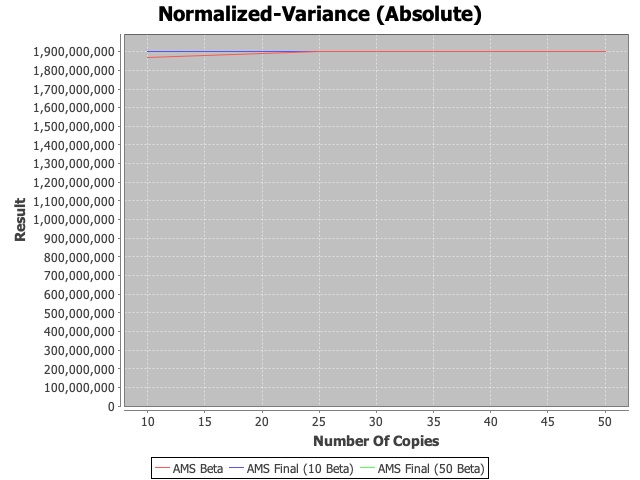
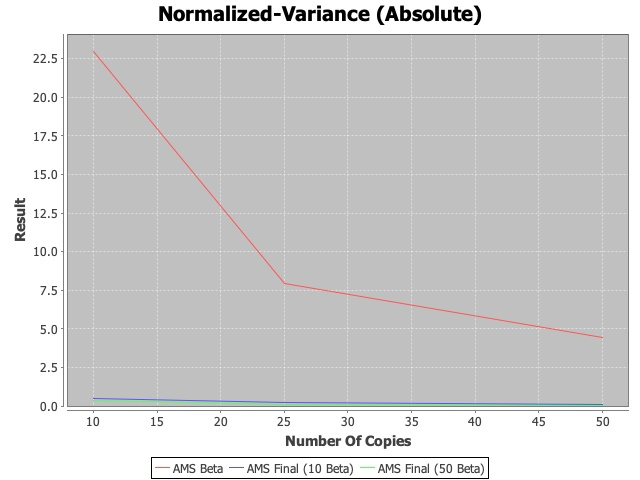
Add README.md and some fixed

diff --git a/src/test/java/AMSTest.java b/src/test/java/AMSTest.java
@@ -6,16 +6,10 @@ import org.junit.jupiter.api.Test;
 import util.AMSPlotter;
 import util.CalculationUtil;
 import util.ExperimentResult;
-import util.SeedGenerator;
-
-import java.io.BufferedWriter;
-import java.io.FileWriter;
-import java.io.IOException;
 import java.lang.reflect.Constructor;
-import java.net.URL;
-import java.util.Random;
 
 class AMSTest {
+    public static final int[] copies = {10, 25, 50};
 
     @Test
     public void testAlpha() throws Exception {
@@ -23,44 +17,30 @@ class AMSTest {
         long expectation =  CalculationUtil.calculateExpectation(experimentResults.getResults().stream());
         System.out.println("Used Mem=" + experimentResults.getMem());
         System.out.println("Expectation=" + expectation);
-        System.out.println("Normalized Variance=" + CalculationUtil.calculateNormalizedVariance(experimentResults.getResults().stream(), expectation));
+        System.out.println("Normalized Variance=" + CalculationUtil.calculateNormalizedVariance(experimentResults.getResults()));
     }
 
     @Test
     public void testBetaFinalVersion() throws Exception {
-        AMSPlotter plotter = new AMSPlotter();
+        AMSPlotter plotter = new AMSPlotter(copies);
 
         Constructor<AMSAverage> betaConstructor = AMSAverage.class.getConstructor(Integer.TYPE);
-        ExperimentResult<AMSAverage> beta10 = ExperimentResult.getExperimentResults(betaConstructor, 1);
-        ExperimentResult<AMSAverage> beta25 = ExperimentResult.getExperimentResults(betaConstructor, 2);
-        ExperimentResult<AMSAverage> beta50 = ExperimentResult.getExperimentResults(betaConstructor, 3);
+        ExperimentResult<AMSAverage> beta10 = ExperimentResult.getExperimentResults(betaConstructor, copies[0]);
+        ExperimentResult<AMSAverage> beta25 = ExperimentResult.getExperimentResults(betaConstructor, copies[1]);
+        ExperimentResult<AMSAverage> beta50 = ExperimentResult.getExperimentResults(betaConstructor, copies[2]);
         plotter.addResultSeries("AMS Beta", beta10, beta25, beta50);
 
         Constructor<AMSMedian> finalConstructor = AMSMedian.class.getConstructor(Integer.TYPE, Integer.TYPE);
-        ExperimentResult<AMSMedian> final1010 = ExperimentResult.getExperimentResults(finalConstructor, 1, 1);
-        ExperimentResult<AMSMedian> final1025 = ExperimentResult.getExperimentResults(finalConstructor, 1, 2);
-        ExperimentResult<AMSMedian> final1050 = ExperimentResult.getExperimentResults(finalConstructor, 1, 3);
+        ExperimentResult<AMSMedian> final1010 = ExperimentResult.getExperimentResults(finalConstructor, 10, copies[0]);
+        ExperimentResult<AMSMedian> final1025 = ExperimentResult.getExperimentResults(finalConstructor, 10, copies[1]);
+        ExperimentResult<AMSMedian> final1050 = ExperimentResult.getExperimentResults(finalConstructor, 10, copies[2]);
         plotter.addResultSeries("AMS Final (10 Beta)", final1010, final1025, final1050);
 
-        ExperimentResult<AMSMedian> final5010 = ExperimentResult.getExperimentResults(finalConstructor, 2, 1);
-        ExperimentResult<AMSMedian> final5025 = ExperimentResult.getExperimentResults(finalConstructor, 2, 2);
-        ExperimentResult<AMSMedian> final5050 = ExperimentResult.getExperimentResults(finalConstructor, 2, 3);
+        ExperimentResult<AMSMedian> final5010 = ExperimentResult.getExperimentResults(finalConstructor, 50, copies[0]);
+        ExperimentResult<AMSMedian> final5025 = ExperimentResult.getExperimentResults(finalConstructor, 50, copies[1]);
+        ExperimentResult<AMSMedian> final5050 = ExperimentResult.getExperimentResults(finalConstructor, 50, copies[2]);
         plotter.addResultSeries("AMS Final (50 Beta)", final5010, final5025, final5050);
 
         plotter.plot();
     }
-
-    @Test
-    public void test() throws IOException {
-        URL url = SeedGenerator.class.getClassLoader().getResource("seeds.txt");
-        assert url != null;
-        Random random = new Random();
-        BufferedWriter outputWriter = null;
-        outputWriter = new BufferedWriter(new FileWriter("/Users/michaldeutch/IdeaProjects/AMS/src/main/resources/seeds.txt"));
-        for (int i=0; i<1000000; i++) {
-            outputWriter.write(random.nextInt()+"");
-            outputWriter.newLine();
-        }
-    }
-
 }

diff --git a/src/test/java/util/AMSPlotter.java b/src/test/java/util/AMSPlotter.java
@@ -18,7 +18,21 @@ public class AMSPlotter {
     private final List<XYSeries> expectations = new ArrayList<>();
     private final List<XYSeries> normalizedVariances = new ArrayList<>();
     private final List<XYSeries> usedMem = new ArrayList<>();
-    private final int[] copies = {10, 25, 50};
+    private final int[] copies;
+
+    public AMSPlotter(int[] copies) {
+        this.copies = copies;
+        try {
+            XYSeries F2series = new XYSeries("Real F2");
+            long realF2 = HarryPotter.calculateF2();
+            for (int i: copies) {
+                F2series.add(i, realF2);
+            }
+            expectations.add(F2series);
+        } catch (Exception e) {
+            throw new RuntimeException(e);
+        }
+    }
 
     @SafeVarargs
     public final void addResultSeries(String name, ExperimentResult<?>... results) throws IOException, URISyntaxException {
@@ -28,9 +42,9 @@ public class AMSPlotter {
         int copyInd = 0;
         for (ExperimentResult<?> result : results) {
             long expectation = CalculationUtil.calculateExpectation(result.getResults().stream());
-            long normalizedVariance = CalculationUtil.calculateNormalizedVariance(result.getResults().stream(), expectation);
+            double normalizedVariance = CalculationUtil.calculateNormalizedVariance(result.getResults());
             expectationSeries.add(copies[copyInd], expectation);
-            normalizedVarianceSeries.add(copies[copyInd], normalizedVariance);
+            normalizedVarianceSeries.add(copies[copyInd], Math.abs(normalizedVariance));
             usedMemSeries.add(copies[copyInd], result.getMem());
             copyInd++;
         }
@@ -41,7 +55,7 @@ public class AMSPlotter {
 
     public void plot() throws IOException {
         plot("Expectation", getDataset(expectations));
-        plot("Normalized-Variance", getDataset(normalizedVariances));
+        plot("Normalized-Variance (Absolute)", getDataset(normalizedVariances));
         plot("Used Memory", getDataset(usedMem));
     }
 
@@ -53,7 +67,6 @@ public class AMSPlotter {
                 dataset,
                 PlotOrientation.VERTICAL,
                 true, true, false);
-
         int width = 640;   /* Width of the image */
         int height = 480;  /* Height of the image */
         File XYChart = new File( chartTile + ".jpeg" );

diff --git a/src/test/java/util/ExperimentResult.java b/src/test/java/util/ExperimentResult.java
@@ -22,12 +22,12 @@ public class ExperimentResult<T extends AMS> {
     }
 
     public static <T extends AMS> ExperimentResult<T> getExperimentResults(Constructor<T> amsConstructor, Object... k) throws Exception{
-        long memBefore = getUsedMem();
         List<Long> results = getExperimentParallelStream(amsConstructor, k)
                 .map(ExperimentResult::process)
                 .collect(toList());
-        System.out.println("******* Finished processing " + amsConstructor.getName() + ", params=" + Arrays.stream(k).toList());
-        return new ExperimentResult<>(results, getUsedMem() - memBefore);
+        System.out.println("******* Finished processing "
+                + amsConstructor.getName() + ", params=" + Arrays.stream(k).toList());
+        return new ExperimentResult<>(results, getNumOfBaseEstimators(k));
     }
 
     public List<Long> getResults() {
@@ -43,7 +43,7 @@ public class ExperimentResult<T extends AMS> {
         for (int i=0; i < RUN_EXPERIMENT_TIMES; i++) {
             experiments.add(constructor.newInstance(k));
         }
-        return experiments.stream().parallel();
+        return experiments.parallelStream();
     }
 
     private static long process(AMS ams) {
@@ -54,8 +54,12 @@ public class ExperimentResult<T extends AMS> {
         }
     }
 
-    private static long getUsedMem() {
-        return Runtime.getRuntime().totalMemory()-Runtime.getRuntime().freeMemory();
+    private static int getNumOfBaseEstimators(Object... k) {
+        int mul = 1;
+        for(int i=0; i<k.length; i++) {
+            mul *= (int)k[i];
+        }
+        return mul;
     }
 
 }

diff --git a/src/main/java/util/HarryPotter.java b/src/main/java/util/HarryPotter.java
@@ -7,11 +7,14 @@ import java.nio.file.Files;
 import java.nio.file.Path;
 import java.nio.file.Paths;
 import java.util.Arrays;
+import java.util.Map;
+import java.util.concurrent.ConcurrentHashMap;
 import java.util.concurrent.atomic.AtomicLong;
 import java.util.stream.Stream;
 
 public class HarryPotter {
-    private static AtomicLong distinctWords = new AtomicLong(0);
+    private static final AtomicLong distinctWords = new AtomicLong(0);
+    private static final AtomicLong f2 = new AtomicLong(0);
 
     public static Stream<String> getWordsStream() throws IOException, URISyntaxException {
         URL book = Thread.currentThread().getContextClassLoader().getResource("hp.txt");
@@ -24,6 +27,20 @@ public class HarryPotter {
 
     public static long countWords() throws IOException, URISyntaxException {
         return getWordsStream().count();
+    }
+
+    public static long calculateF2() throws IOException, URISyntaxException {
+        return f2.updateAndGet(val -> {
+            Map<String, Integer> frequencies = new ConcurrentHashMap<>();
+            try {
+                if (val > 0) return val;
+                getWordsStream().parallel()
+                        .forEach(word -> frequencies.compute(word, (w, freq) -> freq == null ? 1 : freq + 1));
+            } catch (Exception e) {
+                e.printStackTrace();
+            }
+            return frequencies.values().parallelStream().mapToLong(f -> Math.round(Math.pow(f, 2))).sum();
+        });
     }
 
     public static long countDistinctWords() throws IOException, URISyntaxException {

diff --git a/src/test/java/util/CalculationUtil.java b/src/test/java/util/CalculationUtil.java
@@ -2,6 +2,7 @@ package util;
 
 import java.io.IOException;
 import java.net.URISyntaxException;
+import java.util.List;
 import java.util.stream.Stream;
 
 public enum CalculationUtil {;
@@ -9,11 +10,16 @@ public enum CalculationUtil {;
         return Math.round(experiments.mapToLong(i -> i).average().getAsDouble());
     }
 
-    public static long calculateNormalizedVariance(Stream<Long> experiments, long expectation) throws IOException, URISyntaxException {
-        long expectationOfSquares = calculateExpectation(experiments.map(l -> (long) Math.pow(l, 2)));
-        long expectationSquared = (long) Math.pow(expectation, 2);
-        long n = Math.round(Math.pow(HarryPotter.countDistinctWords(), 2));
-        return (expectationOfSquares - expectationSquared) / n;
+    public static double calculateNormalizedVariance(List<Long> experiments) throws IOException, URISyntaxException {
+        double sumDif2 = 0.0;
+        double f2 = HarryPotter.calculateF2();
+        for (long val: experiments) {
+            double normalized = val / f2;
+            double diff = normalized - 1.0;
+            diff *= diff;
+            sumDif2 += diff;
+        }
+        return sumDif2 / (experiments.size() > 1? experiments.size() - 1 : 1.0);
     }
 
 }

diff --git a/src/main/java/ams/AMSMedian.java b/src/main/java/ams/AMSMedian.java
@@ -16,7 +16,7 @@ public class AMSMedian implements AMS {
     @Override
     public long process() throws Exception {
         int size = ams.size();
-        return Math.round(ams.stream().parallel().mapToLong(ams -> {
+        return Math.round(ams.parallelStream().mapToLong(ams -> {
             try {
                 return ams.process();
             } catch (Exception e) {

diff --git a/src/main/java/ams/AMSAverage.java b/src/main/java/ams/AMSAverage.java
@@ -14,7 +14,7 @@ public class AMSAverage implements AMS {
 
     @Override
     public long process() throws Exception {
-        return Math.round(ams.stream().parallel().mapToLong(ams -> {
+        return Math.round(ams.parallelStream().mapToLong(ams -> {
             try {
                 return ams.process();
             } catch (Exception e) {

diff --git a/README.md b/README.md
@@ -1,0 +1,101 @@
+
+<div>
+
+# AMS
+
+This repository contains code to experiment with the different AMS algorithms **Alpha, Beta and Final**.
+
+Each experiment gets a [Stream](https://docs.oracle.com/javase/8/docs/api/java/util/stream/Stream.html) of the [Harry Potter](src/main/resources/hp.txt) Book!
+* _1,170,484_ words in total
+* _69,686_ distinct words
+* F2 is _7,262,951,972_
+
+Java was chosen to get a reasonable running time, using high parallelism.
+
+[Getting started](#getting-started) •
+[Results](#results) 
+
+</div>
+
+## Getting started
+```sh
+git clone https://github.com/michaldeutch/AMS.git
+
+cd AMS/
+
+mvn clean install
+```
+
+## Results
+
+### AMS Alpha
+
+```sh
+# Re-run test
+mvn -Dtest=AMSTest#testAlpha test
+...
+******* Finished processing ams.AMSBase, params=[]
+Used Mem=1
+Expectation=5888724497
+Normalized Variance=14404619
+```
+
+### AMS Beta & Final
+
+```sh
+# Re-run test
+mvn -Dtest=AMSTest#testBetaFinalVersion test
+
+# 3 files should be generated, but it could take a few hours :)
+# Expectation.jpeg, Normalized-Variance (Absolute).jpeg, Used Memory.jpeg
+```
+
+I chose to create 3 charts - one for each measure, and display all 3 serieses of experiments:
+1. **Beta estimator** - with _10, 25, 50_ Alpha estimators
+2. **Final estimator with _10_ Beta Estimators** - with _10, 25, 50_ Alpha estimators
+3. **Final estimator with _50_ Beta Estimators** - with _10, 25, 50_ Alpha estimators
+
+#### Relative Errors
+
+To get a 99% success rate, we will take  &delta; = 0.01
+
+
+##### Beta Estimators:
+
+From class we know that Pr[|B-F<sub>2</sub>| > &epsilon;F<sub>2</sub>] < 2/k&epsilon;<sup>2</sup> ~ &delta; , then we can infer &epsilon;.
+
+* For 10 Alpha estimators we get that &epsilon; = 4.47
+* For 25 Alpha estimators we get that &epsilon; = 2.82
+* For 50 Alpha estimators we get that &epsilon; = 2
+
+Which is not a good approximation
+
+##### Final Estimators:
+
+In order for the median to be off accuracy, more than half of the beta estimators should be off. 
+So we get that Pr[|Final-F<sub>2</sub>| > &epsilon;F<sub>2</sub>] < (2/k&epsilon;<sup>2</sup>)<sup>b/2</sup> ~ &delta;
+When b is the number of used Beta estimators
+
+* For 10 Beta estimators, b/2=5
+  * For 10 Alpha estimators we get that &epsilon; = 0.71
+  * For 25 Alpha estimators we get that &epsilon; = 0.45
+  * For 50 Alpha estimators we get that &epsilon; = 0.32
+* For 50 Beta estimators, b/2=25
+  * For 10 Alpha estimators we get that &epsilon; = 0.49
+  * For 25 Alpha estimators we get that &epsilon; = 0.31
+  * For 50 Alpha estimators we get that &epsilon; = 0.22
+#### Expectation Chart
+
+![alt text](Expectation.jpeg)
+
+It's notable that all of the estimators are pretty close to the real F2 - due to **unbiased** quality
+
+#### Normalized Variance Chart
+
+Absolute value was applied to each of the normalized variance values
+
+![alt text](Normalized-Variance%20(Absolute).jpeg)
+
+#### Memory Usage
+
+![alt text](Used%20Memory.jpeg)
